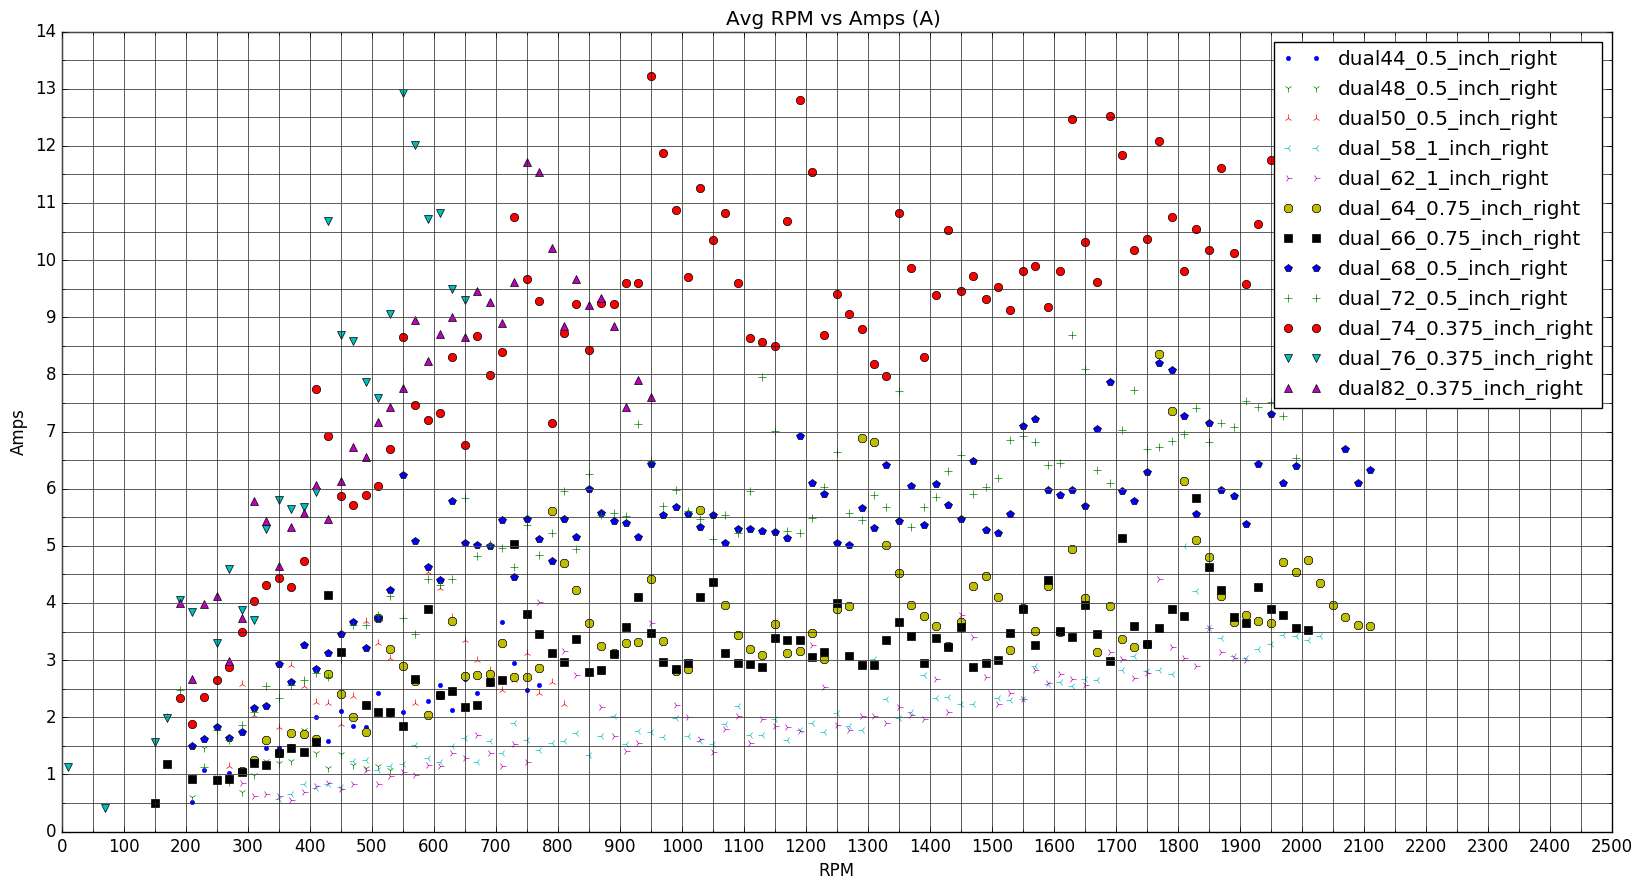
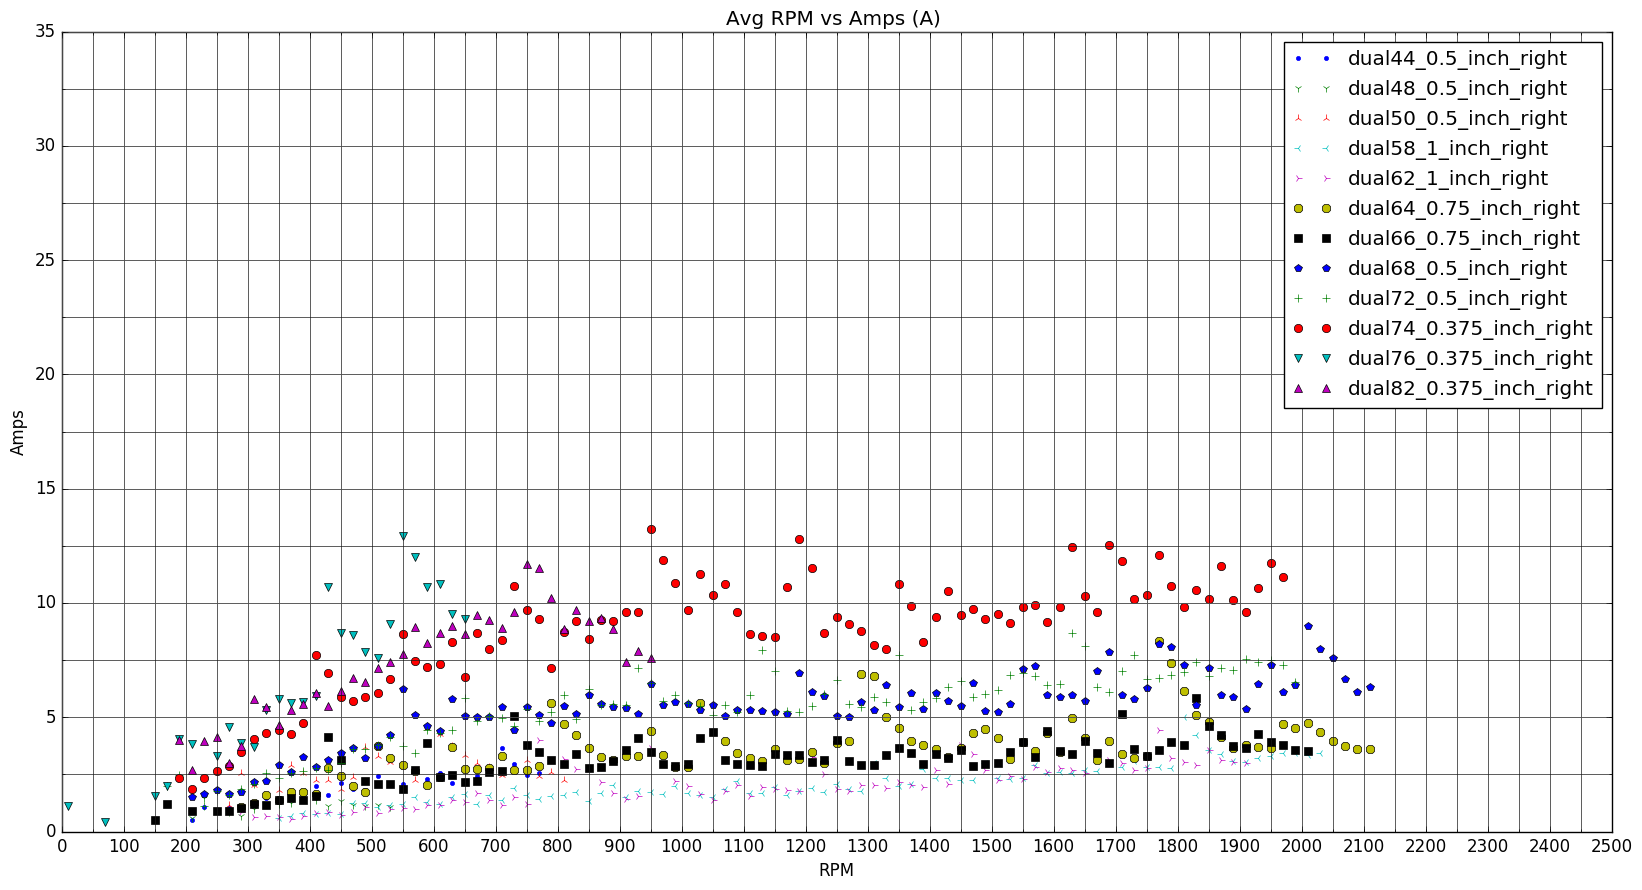
Updated amp graph

diff --git a/TestingRigUtil/process_util.py b/TestingRigUtil/process_util.py
@@ -376,7 +376,8 @@ if(do_compare):
     ax.xaxis.set_major_locator(ticker.MultipleLocator(100))
     ax.xaxis.set_minor_locator(ticker.MultipleLocator(50))
     ax.yaxis.set_major_locator(ticker.MultipleLocator(5))
-    ax.yaxis.set_minor_locator(ticker.MultipleLocator(1))
+    ax.yaxis.set_minor_locator(ticker.MultipleLocator(2.5))
+    plt.ylim(0,35)
     print("\tSaving avg RPM vs AMP plot for all tests")
     if(dual):
         fig.savefig(output_directory + test_names[0].replace("right",'').replace("left", '')+"dual_rpm_vs_amp.png", bbox_inches='tight' )
